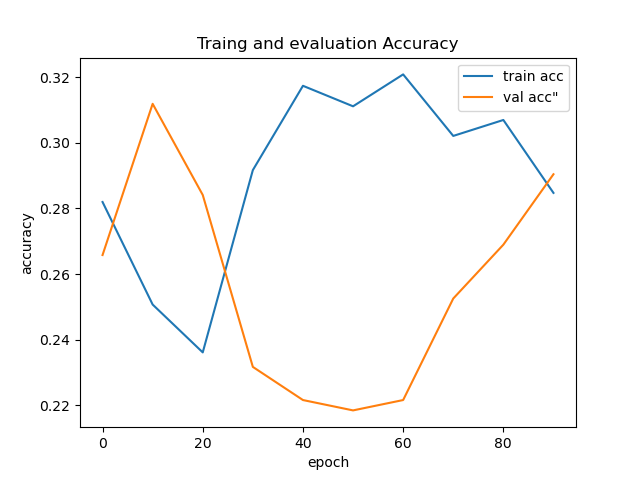
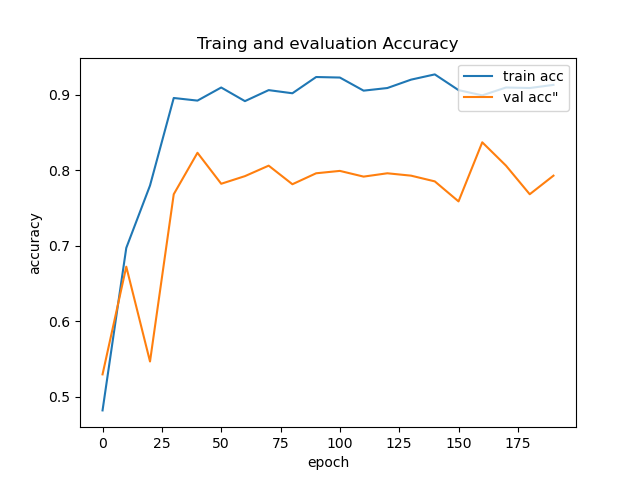
modified:   model.py 	modified:   train.py

diff --git a/train.py b/train.py
@@ -158,7 +158,12 @@ def run_all_single_tasks(tasks):
     if 0 in tasks:
         print("------------------------------------------------")
         print("-----------   pose task    -----------------------")
-        train_evaluate(task="pose", dim_out=4, downsample=downsample)
+        #train_evaluate(task="pose", dim_out=4, downsample=downsample)
+        #train_evaluate(task="pose", dim_out=4, useDeepNN=True, useFER=False,
+        #               downsample=downsample, batch_size=16, lr=0.001, n_epochs=100)
+        train_evaluate(task="pose", dim_out=4, useDeepNN=False, useNueralNetsEnsemble=True, useFER=False,
+                       downsample=downsample, batch_size=16, lr=0.01, n_epochs=200)
+
 
     if 1 in tasks:
         print("------------------------------------------------")
@@ -174,9 +179,13 @@ def run_all_single_tasks(tasks):
     if 2 in tasks:
         print("------------------------------------------------")
         print("-----------   eyes task    -----------------------")
-        train_evaluate(task="eyes", dim_out=2, downsample=downsample)
+        #train_evaluate(task="eyes", dim_out=2, downsample=downsample)
+        #train_evaluate(task="eyes", dim_out=4, useDeepNN=True, useFER=False,
+        #        downsample=downsample, batch_size=16, lr=0.001, n_epochs=100)
+        train_evaluate(task="eyes", dim_out=4, useDeepNN=False, useNueralNetsEnsemble=True, useFER=False,
+                       downsample=downsample, batch_size=16, lr=0.01, n_epochs=200)
 
 if __name__ == '__main__':
-    run_all_single_tasks(tasks=[1])        
+    run_all_single_tasks(tasks=[2])        
     #run_all_single_tasks(tasks=[1])        
     #show_image_grids()

diff --git a/model.py b/model.py
@@ -74,14 +74,14 @@ class DeepNN2(nn.Module):
         x = self.model(x)
         return x
 
-DeepNN = DeepNN1
+DeepNN = DeepNN0
 
 class NueralNetsEnsemble(nn.Module):
     def __init__(self, dim_out=4, downsample=4):
         super(NueralNetsEnsemble, self).__init__()
         size_scale = int(4/downsample)**2
         self.model =  nn.ModuleList()
-        for _ in range(4):
+        for _ in range(2):
             self.model.append( nn.Sequential(
                 nn.Conv2d(in_channels=3, out_channels=128, kernel_size=3, padding=1),
                 nn.Dropout(0.50),
@@ -93,7 +93,7 @@ class NueralNetsEnsemble(nn.Module):
                 nn.Dropout(0.25),
                 nn.Linear(256, dim_out)
             ))
-        for _ in range(3):
+        for _ in range(1):
             self.model.append( nn.Sequential(
                 nn.Conv2d(in_channels=3, out_channels=64, kernel_size=5, padding=2),
                 nn.Dropout(0.25),
